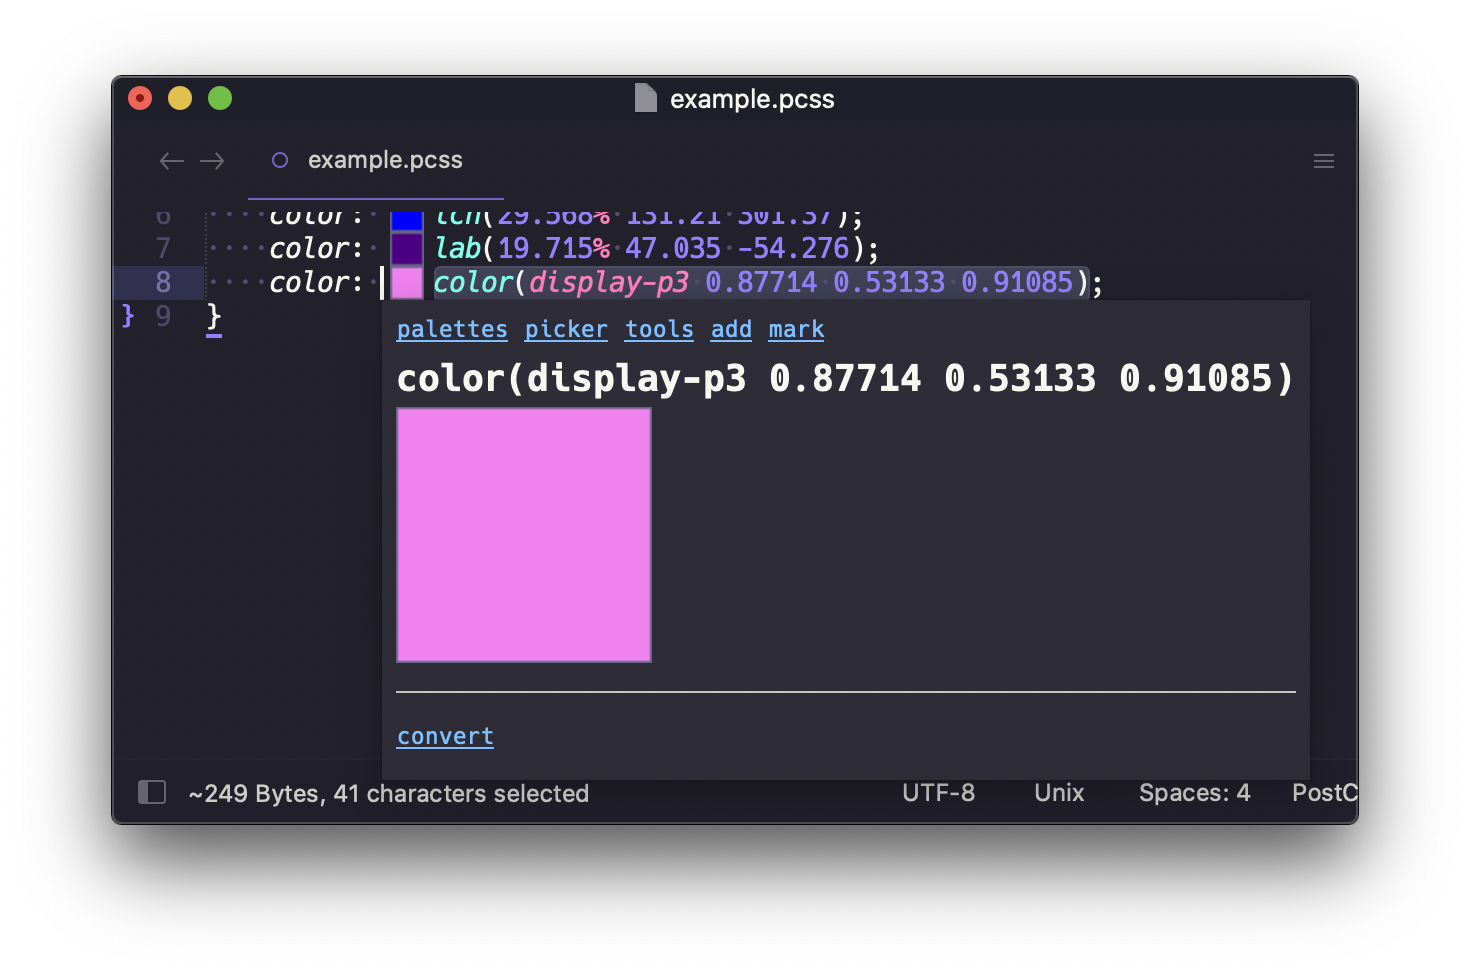
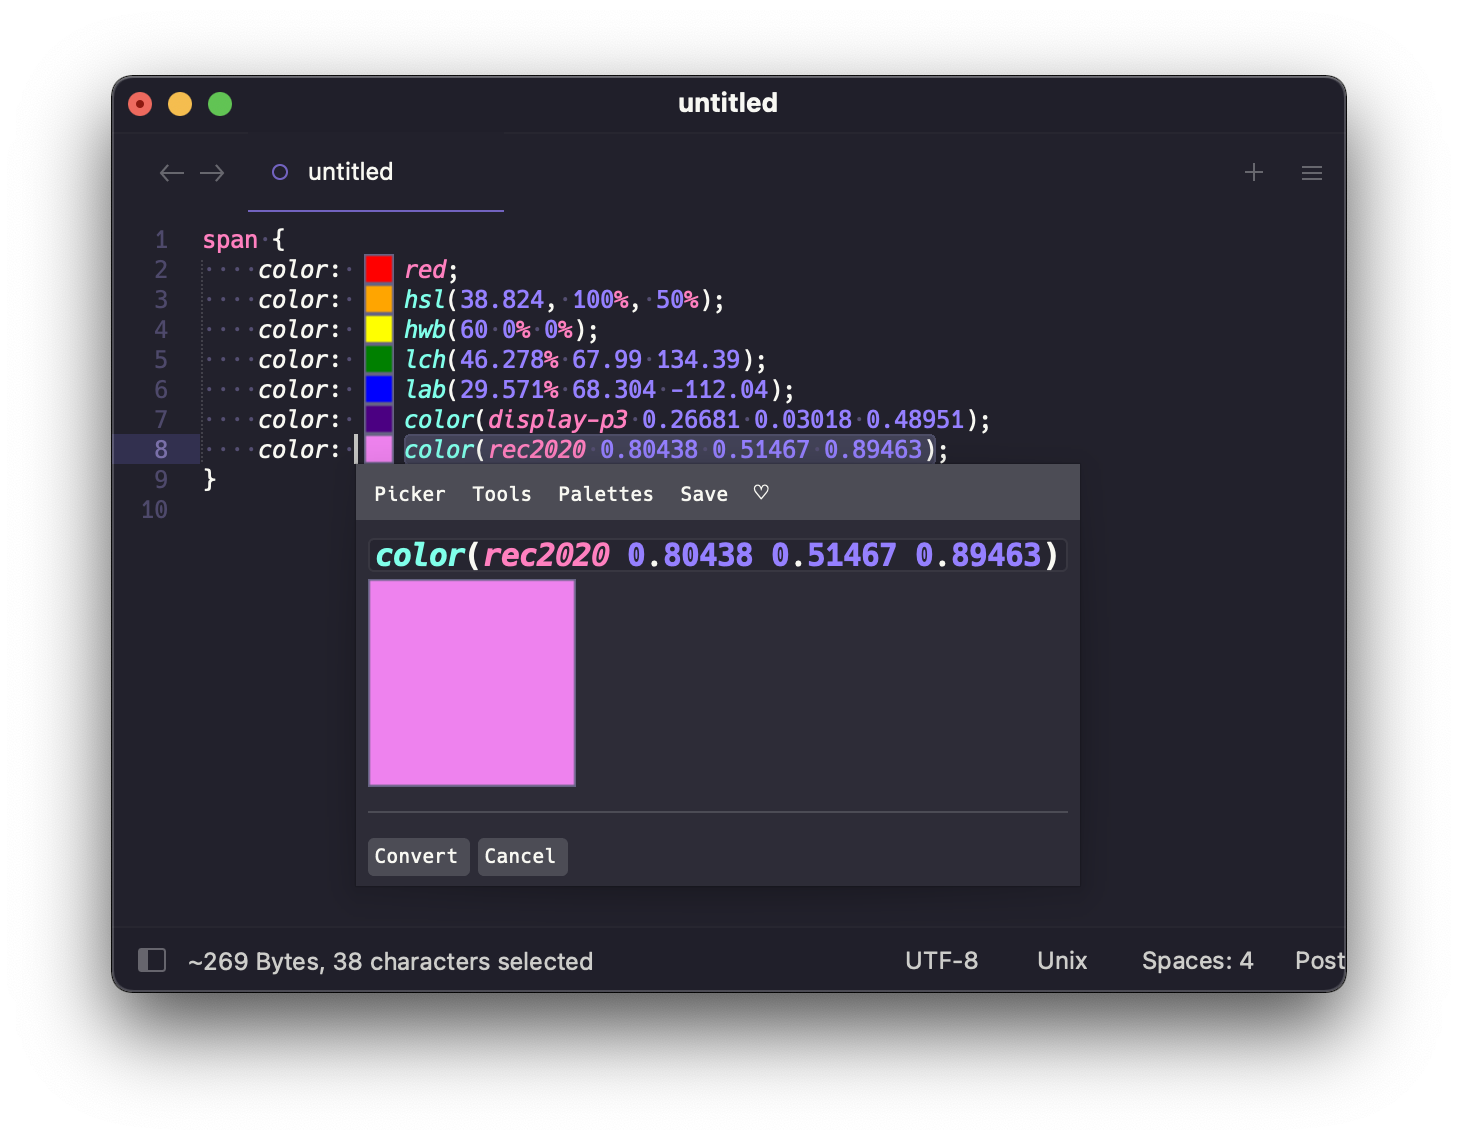
Add new screenshots and fix a couple of missed style issues

diff --git a/panels/color-picker.html b/panels/color-picker.html
@@ -3,6 +3,8 @@
 {%- if plugin.picker %}
  [CSS color names](__colornames__){: .color-helper .small}
  [Tools](__tools__){: .color-helper .small}
+{%- else %}
+<br>
 {%- endif %}
 
 </div>

diff --git a/color_helper_tools.py b/color_helper_tools.py
@@ -48,6 +48,9 @@ code {{
   font-family: {font};
   padding: 0 0.25em;
 }}
+a {{
+    color: inherit;
+}}
 div {{
   font-family: {font};
   display: block;

diff --git a/support.py b/support.py
@@ -5,7 +5,7 @@ import textwrap
 import webbrowser
 import re
 
-__version__ = "3.1.2"
+__version__ = "3.1.3"
 __pc_name__ = 'ColorHelper'
 
 CSS = '''

diff --git a/CHANGES.md b/CHANGES.md
@@ -1,5 +1,9 @@
 # ColorHelper
 
+## 3.1.3
+
+- **FIX**: A few fixes to new style.
+
 ## 3.1.2
 
 - **FIX**: Improved visuals for popups and `TextInputHandlers`. Improve consistency  
